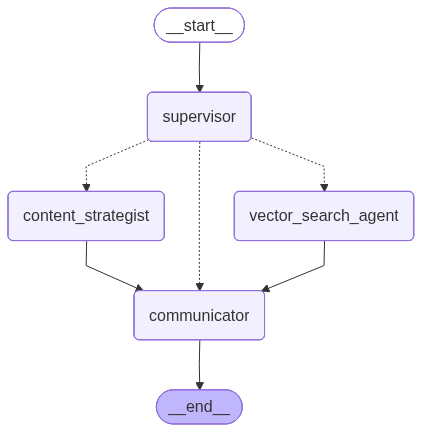
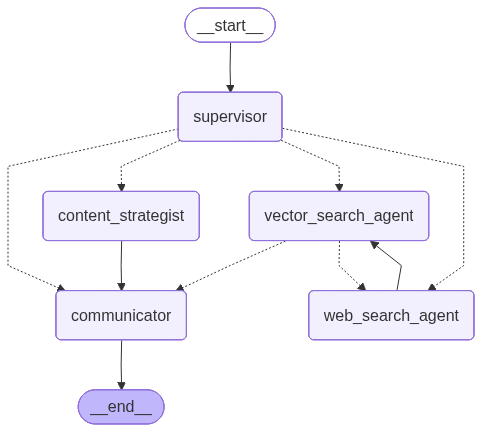
feat: Add chat turn interface, input clear on submit, and render database/time metadata

diff --git a/google_drive/new_project_03/GAS01/style.html b/google_drive/new_project_03/GAS01/style.html
@@ -226,14 +226,18 @@
 
   /* Answer Display Box */
   .ai-answer-box {
-    min-height: 120px;
+    min-height: 200px;
+    max-height: 500px;
+    overflow-y: auto;
     background: rgba(0, 0, 0, 0.25);
     border: 1px solid rgba(255, 255, 255, 0.05);
     border-radius: 12px;
     padding: 20px;
     line-height: 1.7;
     font-size: 1rem;
-    white-space: pre-wrap;
+    display: flex;
+    flex-direction: column;
+    gap: 20px;
     transition: all 0.3s ease;
   }
 
@@ -258,38 +262,109 @@
     font-weight: 300;
   }
 
-  /* Loading/Asking state animation */
-  .ai-answer-box.loading-state {
+  /* Chat Turn Layout */
+  .chat-turn {
     display: flex;
     flex-direction: column;
-    align-items: center;
-    justify-content: center;
     gap: 12px;
-    color: var(--accent-color);
-    font-weight: 600;
-    animation: pulseLoading 1.8s infinite ease-in-out;
+    padding-bottom: 16px;
+    border-bottom: 1px solid rgba(255, 255, 255, 0.05);
   }
 
-  .spinner {
-    width: 32px;
-    height: 32px;
-    border: 3px solid rgba(56, 189, 248, 0.2);
+  .chat-turn:last-child {
+    border-bottom: none;
+    padding-bottom: 0;
+  }
+
+  .chat-question, .chat-answer {
+    display: flex;
+    align-items: flex-start;
+    gap: 12px;
+  }
+
+  .chat-icon {
+    font-size: 1.6rem;
+    color: var(--accent-color);
+    margin-top: 4px;
+    flex-shrink: 0;
+  }
+
+  .spin-icon {
+    animation: spin 8s linear infinite;
+  }
+
+  .chat-bubble-user {
+    background: rgba(6, 182, 212, 0.1);
+    border: 1px solid rgba(6, 182, 212, 0.2);
+    border-radius: 12px 12px 0 12px;
+    padding: 12px 16px;
+    color: var(--text-primary);
+    max-width: 85%;
+    word-break: break-word;
+  }
+
+  .chat-bubble-ai {
+    background: rgba(255, 255, 255, 0.03);
+    border: 1px solid rgba(255, 255, 255, 0.05);
+    border-radius: 12px 12px 12px 0;
+    padding: 16px;
+    color: var(--text-primary);
+    flex-grow: 1;
+    max-width: 85%;
+    display: flex;
+    flex-direction: column;
+    gap: 12px;
+    word-break: break-word;
+  }
+
+  .error-bubble {
+    background: rgba(239, 68, 68, 0.05);
+    border-color: rgba(239, 68, 68, 0.2);
+    color: #F87171;
+  }
+
+  .chat-answer.loading-active .chat-bubble-ai {
+    display: flex;
+    flex-direction: row;
+    align-items: center;
+    gap: 12px;
+    color: var(--text-secondary);
+  }
+
+  .spinner-small {
+    width: 16px;
+    height: 16px;
+    border: 2px solid rgba(56, 189, 248, 0.2);
     border-top-color: var(--accent-color);
     border-radius: 50%;
     animation: spin 1s infinite linear;
+    flex-shrink: 0;
   }
 
-  /* Result styling */
-  .ai-answer-box.result-state {
-    color: var(--text-primary);
-    border-left: 4px solid var(--accent-color);
+  /* Metadata Panel */
+  .ai-metadata {
+    display: flex;
+    flex-wrap: wrap;
+    gap: 16px;
+    padding-top: 10px;
+    border-top: 1px solid rgba(255, 255, 255, 0.05);
+    font-size: 0.8rem;
+    color: var(--text-secondary);
   }
 
-  /* Error state */
-  .ai-answer-box.error-state {
-    color: #F87171;
-    border-left: 4px solid var(--error-color);
-    background: rgba(239, 68, 68, 0.05);
+  .metadata-item {
+    display: flex;
+    align-items: center;
+    gap: 6px;
+  }
+
+  .meta-icon {
+    font-size: 1rem;
+    color: var(--text-muted);
+  }
+
+  .ai-reply {
+    white-space: pre-wrap;
   }
 
   /* Footer Styling */

diff --git a/google_drive/new_project_03/GAS01/script.html b/google_drive/new_project_03/GAS01/script.html
@@ -22,6 +22,8 @@
       }
     });
 
+    let currentTurnDiv = null;
+
     /**
      * Handles the Ask Question button click event.
      */
@@ -35,18 +37,39 @@
         return;
       }
 
-      // 1. Update UI to Loading state
-      boxAnswer.className = "ai-answer-box loading-state";
-      boxAnswer.innerHTML = `
-        <div class="spinner"></div>
-        <p>AI 질문중입니다...</p>
-      `;
+      // Remove empty state if present
+      if (boxAnswer.classList.contains("empty-state")) {
+        boxAnswer.innerHTML = "";
+        boxAnswer.className = "ai-answer-box result-state";
+      }
 
-      // Disable inputs to prevent multiple submissions
+      // Create and append the new chat turn element
+      currentTurnDiv = document.createElement("div");
+      currentTurnDiv.className = "chat-turn";
+      currentTurnDiv.innerHTML = `
+        <div class="chat-question">
+          <span class="material-symbols-outlined chat-icon">person</span>
+          <div class="chat-bubble-user">${formatResponse(questionText)}</div>
+        </div>
+        <div class="chat-answer loading-active">
+          <span class="material-symbols-outlined chat-icon spin-icon">smart_toy</span>
+          <div class="chat-bubble-ai">
+            <div class="spinner-small"></div>
+            <span>AI 답변을 생성하고 있습니다...</span>
+          </div>
+        </div>
+      `;
+      boxAnswer.appendChild(currentTurnDiv);
+
+      // Scroll to bottom
+      boxAnswer.scrollTop = boxAnswer.scrollHeight;
+
+      // Clear input and disable elements to prevent multiple submissions
+      txtQuestion.value = "";
       btnAsk.disabled = true;
       txtQuestion.disabled = true;
 
-      // 2. Call Google Apps Script backend function (askAI)
+      // Call Google Apps Script backend function (askAI)
       google.script.run
         .withSuccessHandler(onSuccess)
         .withFailureHandler(onFailure)
@@ -61,11 +84,54 @@
       btnAsk.disabled = false;
       txtQuestion.disabled = false;
 
-      // Update UI with response
-      boxAnswer.className = "ai-answer-box result-state";
-      
-      // Basic markdown/formatting helper for bolding and code blocks if present
-      boxAnswer.innerHTML = formatResponse(response);
+      if (!currentTurnDiv) return;
+
+      const answerDiv = currentTurnDiv.querySelector(".chat-answer");
+      if (!answerDiv) return;
+
+      answerDiv.className = "chat-answer"; // remove loading-active
+
+      if (response && response.error) {
+        answerDiv.innerHTML = `
+          <span class="material-symbols-outlined chat-icon" style="color: var(--error-color);">warning</span>
+          <div class="chat-bubble-ai error-bubble">
+            <strong>오류가 발생했습니다:</strong><br>${formatResponse(response.reply)}
+          </div>
+        `;
+        currentTurnDiv = null;
+        boxAnswer.scrollTop = boxAnswer.scrollHeight;
+        return;
+      }
+
+      const reply = response.reply || response;
+      const dbRowCount = response.db_row_count || 0;
+      const lastAddedTime = response.last_added_time || "최근 추가 이력 없음";
+      const executionTimeSec = response.execution_time_sec || 0.0;
+
+      answerDiv.innerHTML = `
+        <span class="material-symbols-outlined chat-icon">smart_toy</span>
+        <div class="chat-bubble-ai">
+          <div class="ai-reply">${formatResponse(reply)}</div>
+          <div class="ai-metadata">
+            <div class="metadata-item">
+              <span class="material-symbols-outlined meta-icon">database</span>
+              <span>행 수: <strong>${dbRowCount}</strong>개</span>
+            </div>
+            <div class="metadata-item">
+              <span class="material-symbols-outlined meta-icon">history</span>
+              <span>추가 시간: <strong>${lastAddedTime}</strong></span>
+            </div>
+            <div class="metadata-item">
+              <span class="material-symbols-outlined meta-icon">timer</span>
+              <span>사용 시간: <strong>${executionTimeSec}</strong>초</span>
+            </div>
+          </div>
+        </div>
+      `;
+
+      // Reset current reference
+      currentTurnDiv = null;
+      boxAnswer.scrollTop = boxAnswer.scrollHeight;
     }
 
     /**
@@ -76,13 +142,21 @@
       btnAsk.disabled = false;
       txtQuestion.disabled = false;
 
-      // Update UI with error information
-      boxAnswer.className = "ai-answer-box error-state";
-      boxAnswer.innerHTML = `
-        <span class="material-symbols-outlined logo-icon" style="color: var(--error-color); animation: none;">warning</span>
-        <p><strong>오류가 발생했습니다.</strong></p>
-        <p>${error.message || error.toString()}</p>
+      if (!currentTurnDiv) return;
+
+      const answerDiv = currentTurnDiv.querySelector(".chat-answer");
+      if (!answerDiv) return;
+
+      answerDiv.className = "chat-answer";
+      answerDiv.innerHTML = `
+        <span class="material-symbols-outlined chat-icon" style="color: var(--error-color);">warning</span>
+        <div class="chat-bubble-ai error-bubble">
+          <strong>서버 통신 오류가 발생했습니다:</strong><br>${error.message || error.toString()}
+        </div>
       `;
+
+      currentTurnDiv = null;
+      boxAnswer.scrollTop = boxAnswer.scrollHeight;
     }
 
     /**

diff --git a/main.py b/main.py
@@ -311,6 +311,7 @@ def web_search_agent(state: State):
     # 검색 결과를 add_web_pages_json_to_croma 함수를 통해 벡터 DB에 저장
     if web_results:
         add_web_pages_json_to_croma(web_results)
+        references["last_added_time"] = datetime.now().strftime('%Y-%m-%d %H:%M:%S')
 
     # task 완료
     task.done = True
@@ -520,6 +521,9 @@ class ChatRequest(BaseModel):
 
 class ChatResponse(BaseModel):
     reply: str
+    db_row_count: int = 0
+    last_added_time: str = "최근 추가 이력 없음"
+    execution_time_sec: float = 0.0
 
 @app.get("/")
 def read_root():
@@ -527,6 +531,9 @@ def read_root():
 
 @app.post("/chat", response_model=ChatResponse)
 async def chat(request: ChatRequest):
+    import time
+    start_time = time.time()
+
     # 각 HTTP 요청마다 독립된 에이전트 상태를 구성
     initial_state = State(
         messages=[
@@ -552,7 +559,31 @@ async def chat(request: ChatRequest):
         last_msg = final_state["messages"][-1]
         reply_content = last_msg.content if hasattr(last_msg, "content") else str(last_msg)
         
-        return ChatResponse(reply=reply_content)
+        # 실행 시간 계산
+        execution_time = round(time.time() - start_time, 2)
+        
+        # 마지막 추가 시간 추출
+        last_added_time = final_state.get("references", {}).get("last_added_time", "최근 추가 이력 없음")
+        
+        # 벡터 DB 행 수 조회
+        db_row_count = 0
+        try:
+            supabase_url = os.getenv("SUPABASE_URL")
+            supabase_key = os.getenv("SUPABASE_KEY")
+            if supabase_url and supabase_key and supabase_url != "your_supabase_url_here":
+                from supabase import create_client
+                supabase = create_client(supabase_url, supabase_key)
+                res = supabase.table("documents").select("id", count="exact").limit(1).execute()
+                db_row_count = res.count if res.count is not None else 0
+        except Exception as e:
+            print(f"[ERROR] Failed to fetch Supabase row count: {e}")
+            
+        return ChatResponse(
+            reply=reply_content,
+            db_row_count=db_row_count,
+            last_added_time=last_added_time,
+            execution_time_sec=execution_time
+        )
     except Exception as e:
         raise HTTPException(
             status_code=500,